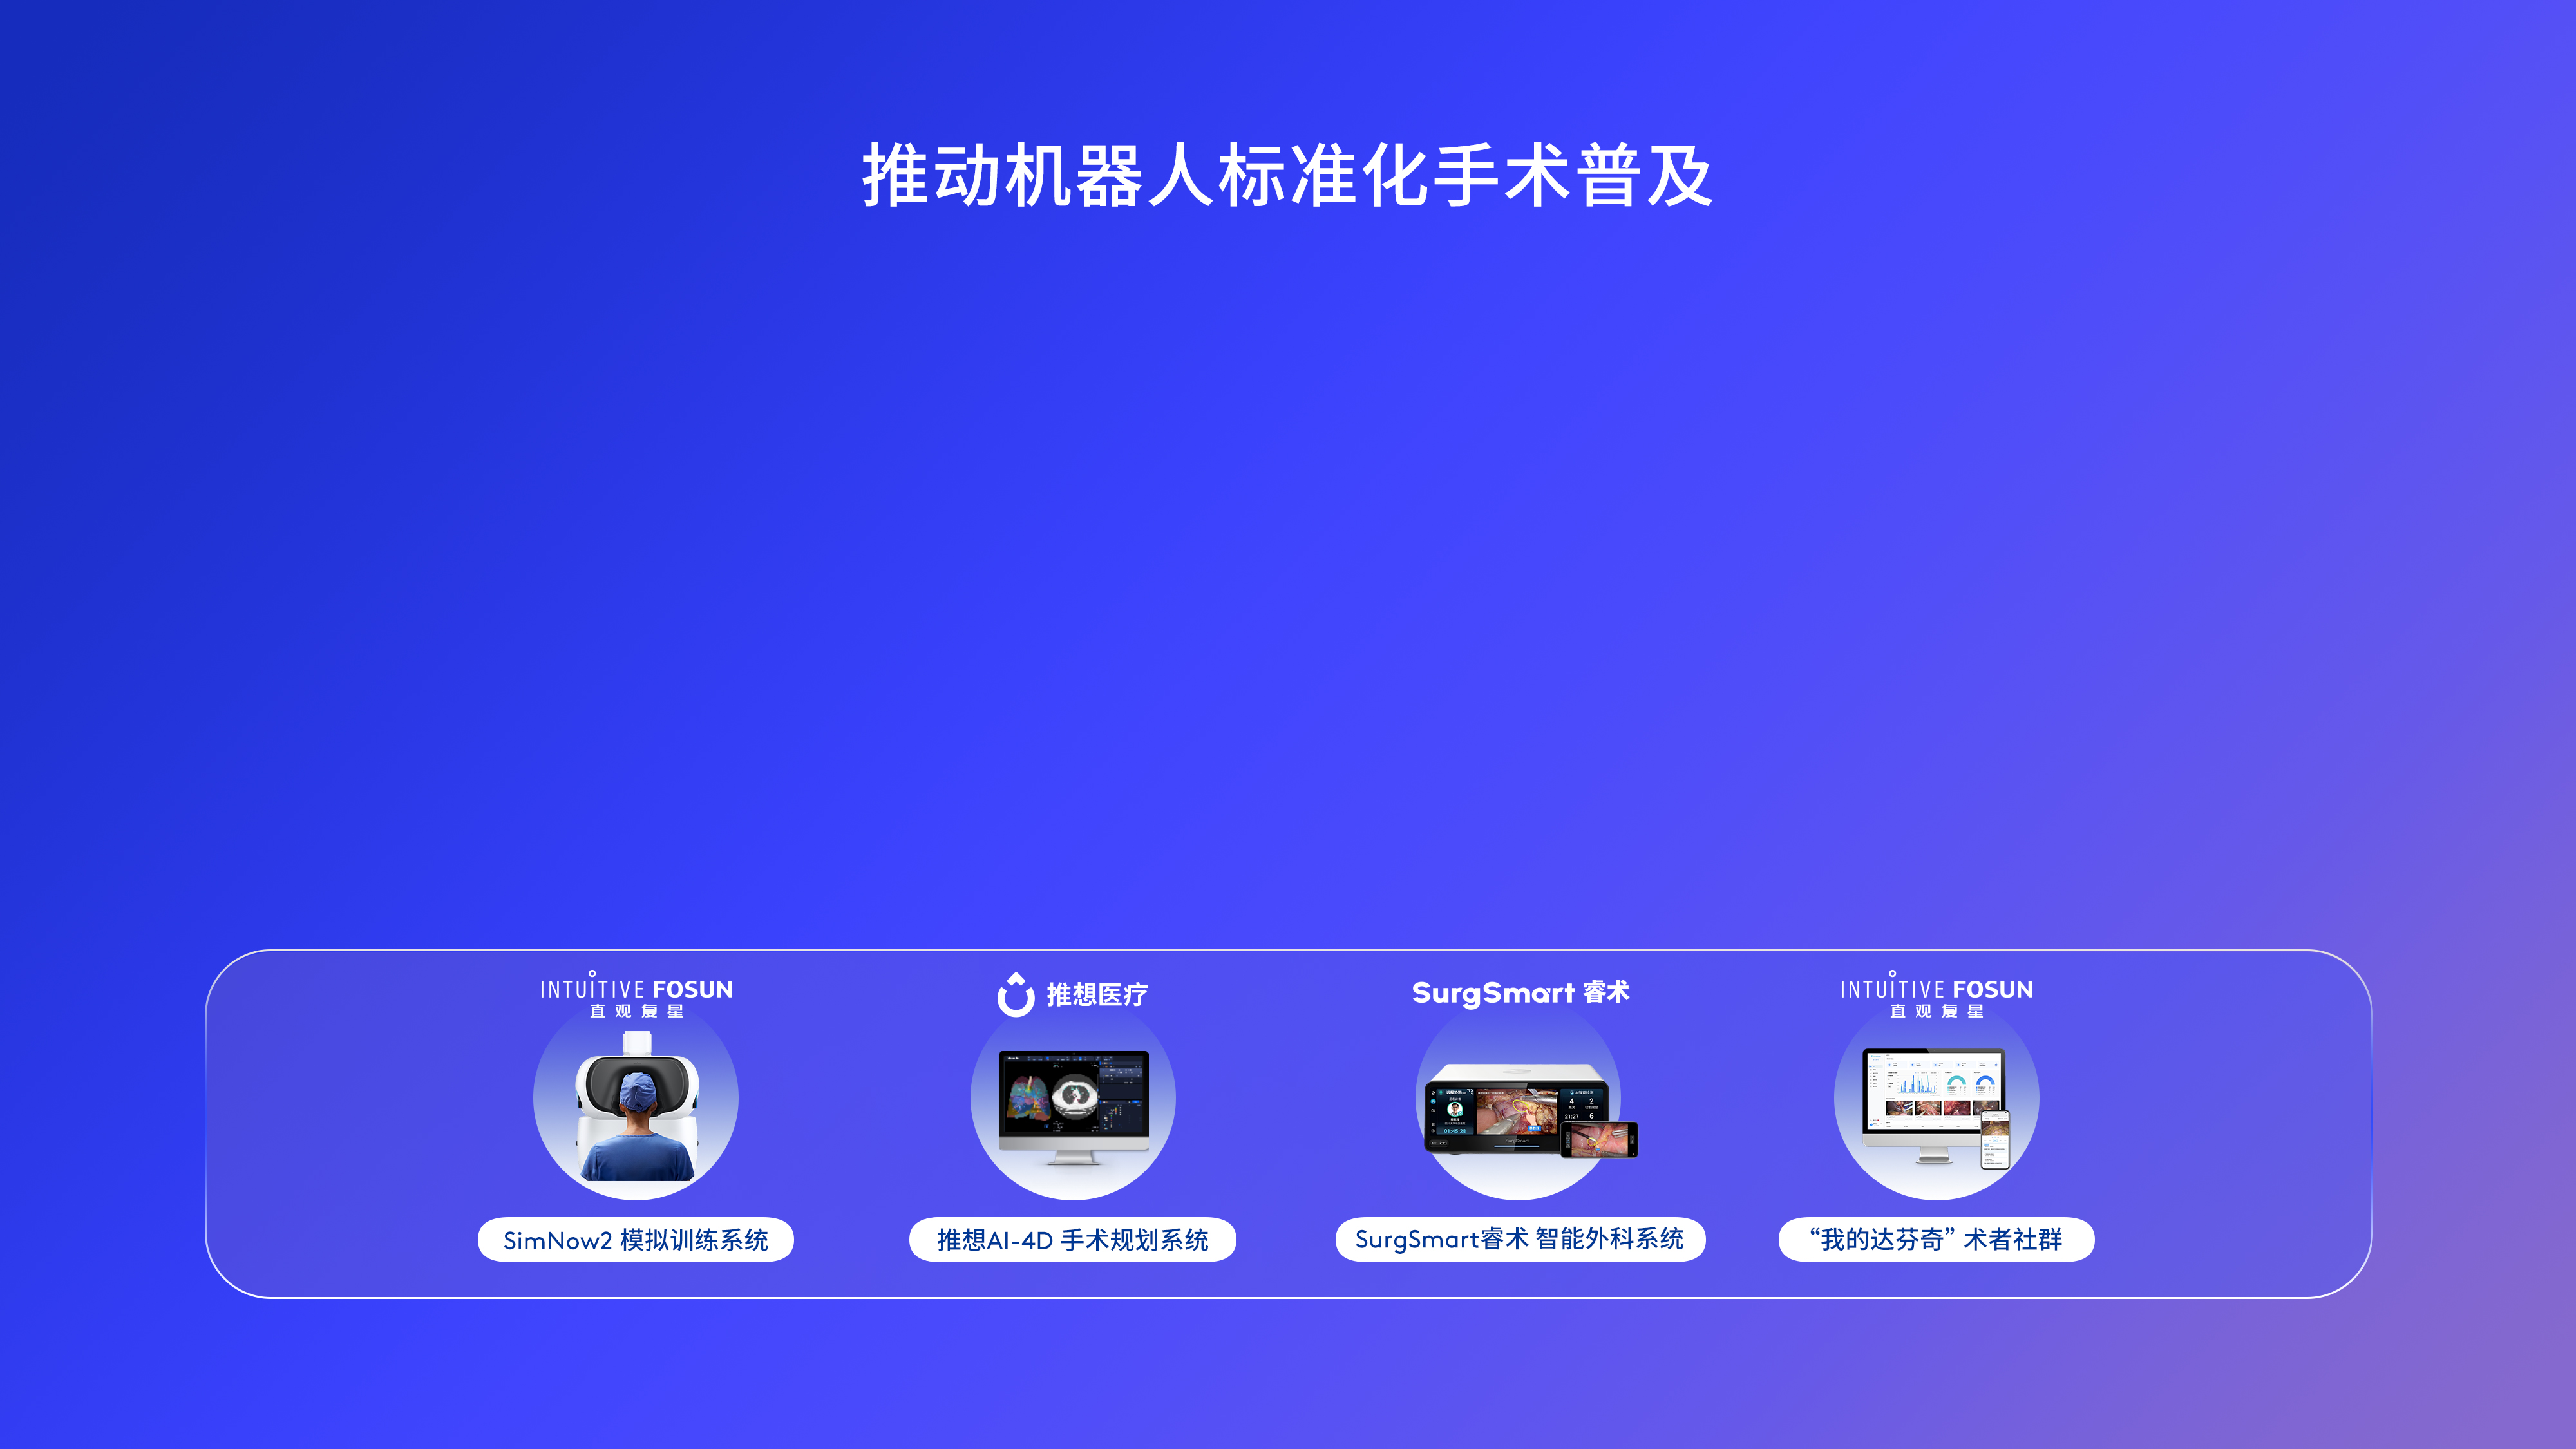
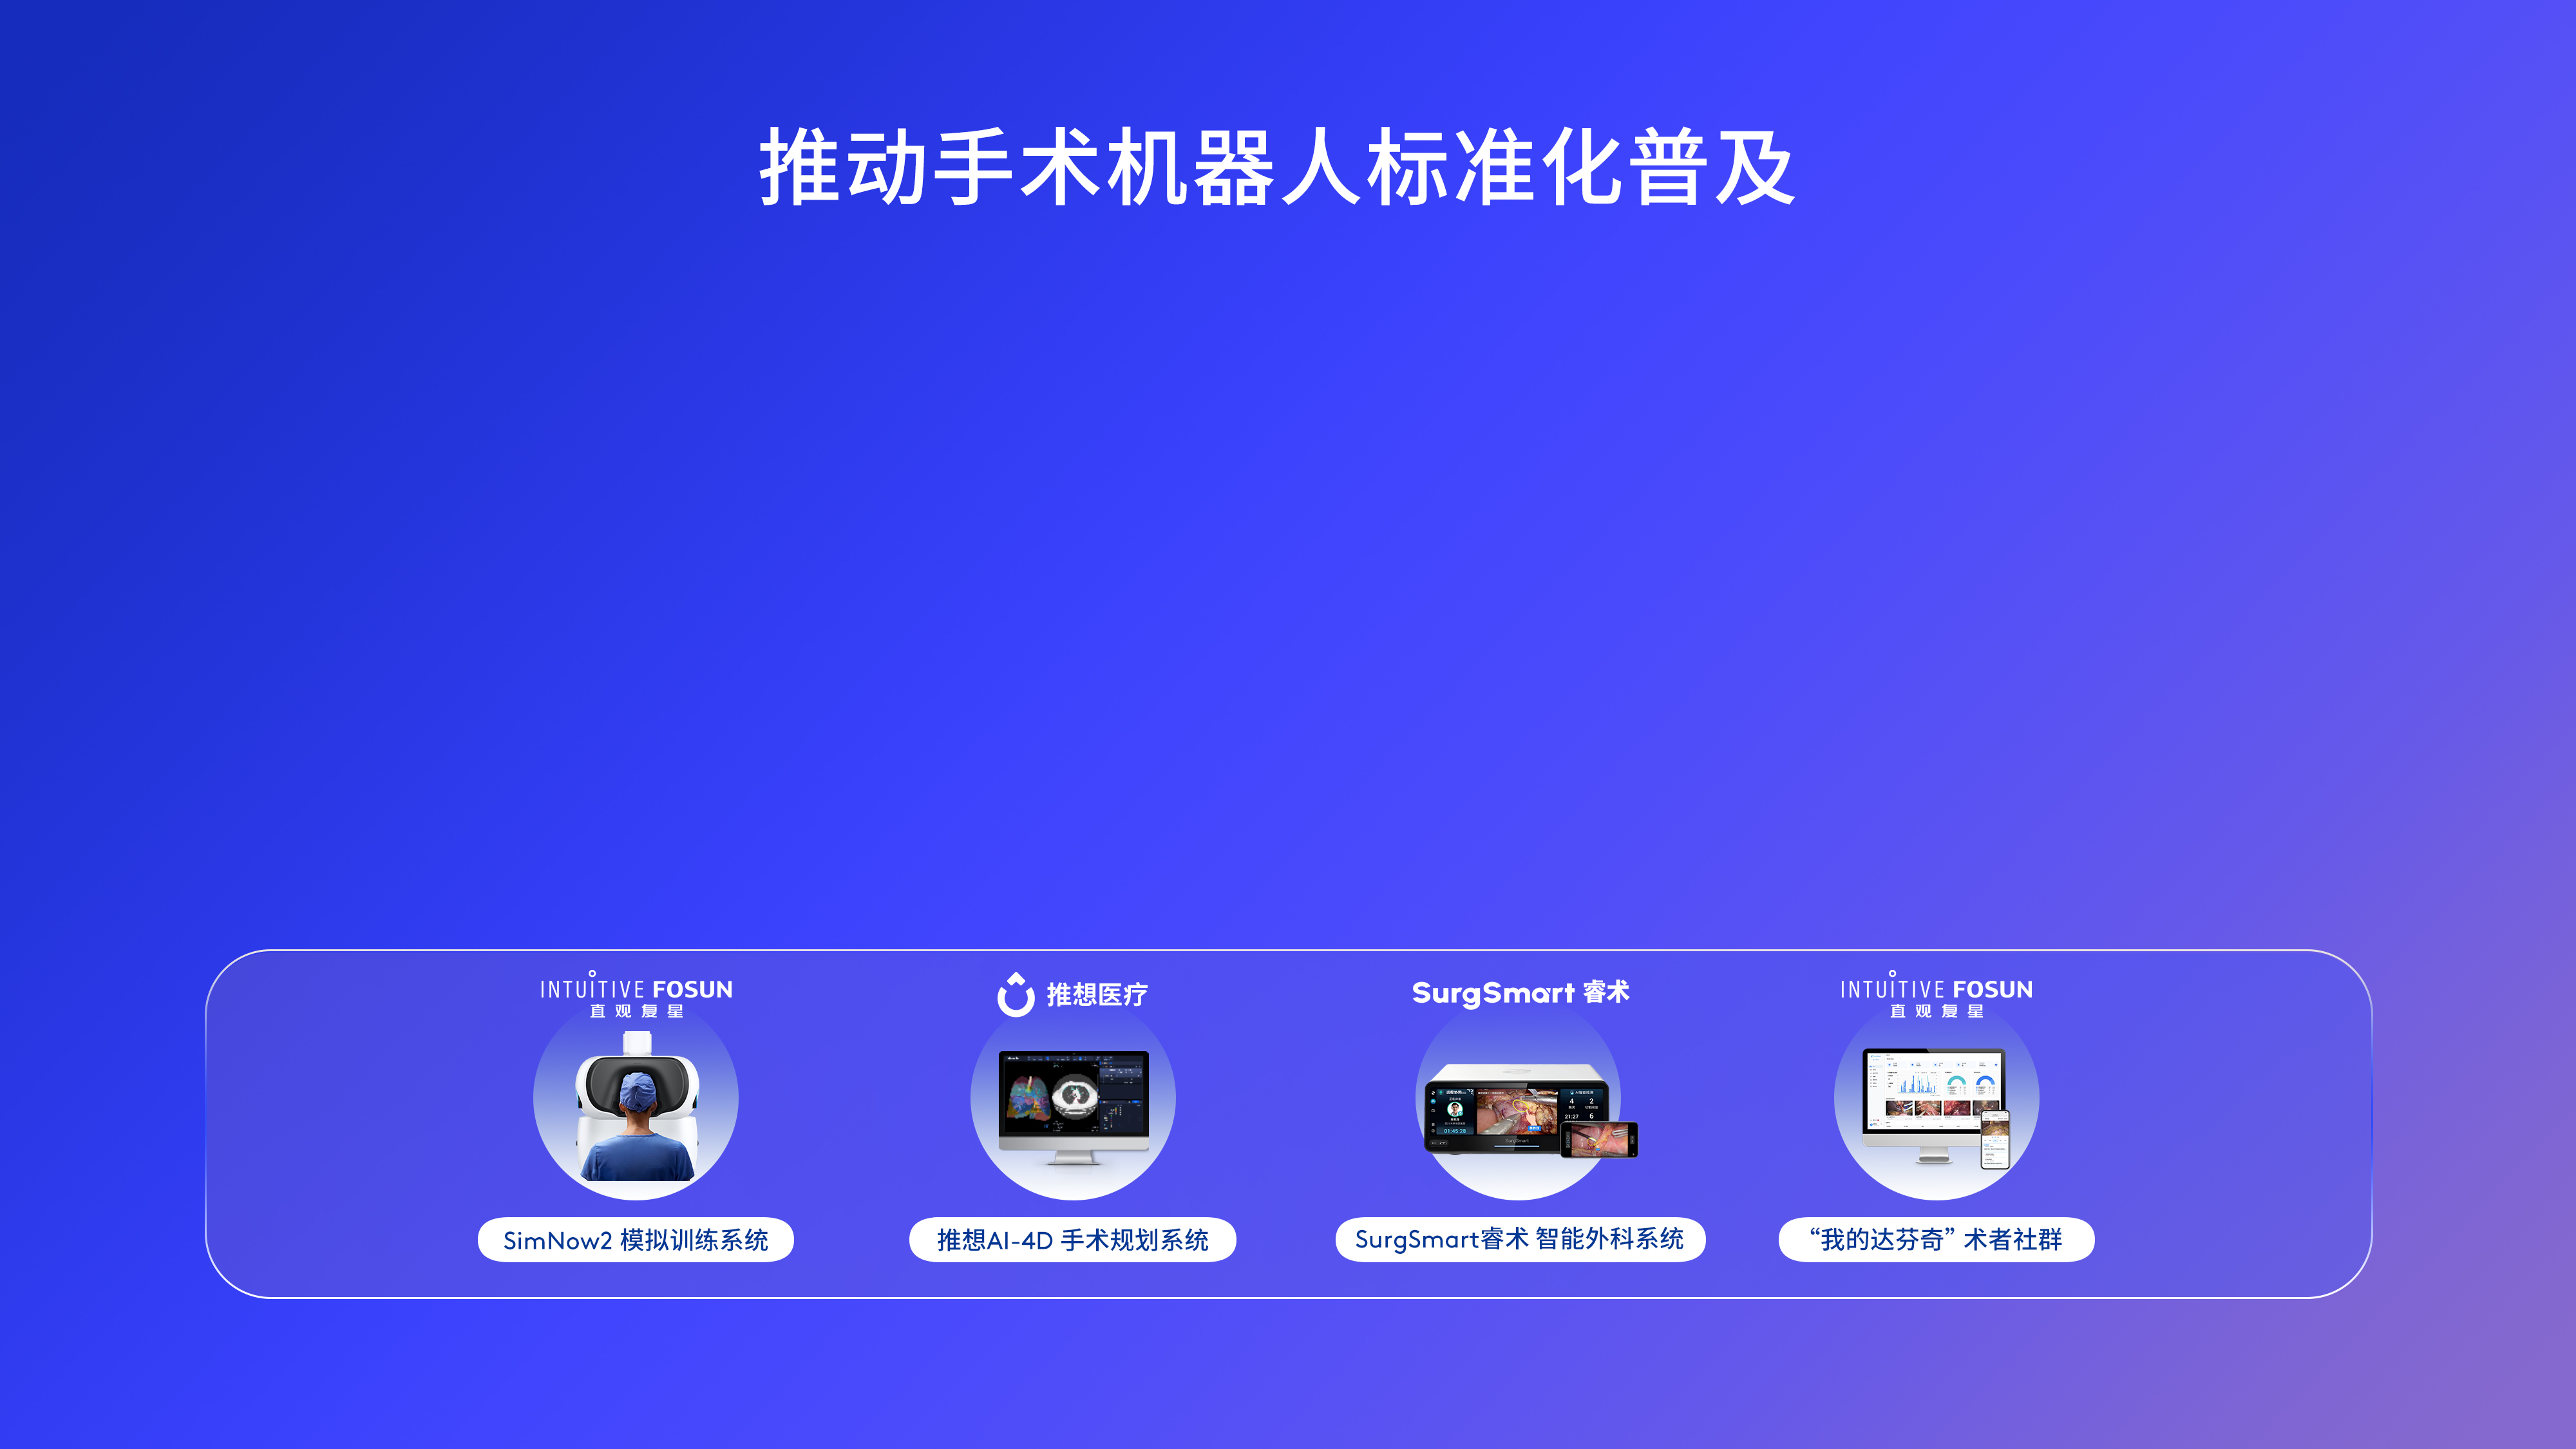
Update homepage surgical decision copy

Changed region(s): [[0.2812, 0.0933, 0.7188, 0.1556]]

diff --git a/src/App.jsx b/src/App.jsx
@@ -513,7 +513,7 @@ function HomeSurface({ onReady, onError }) {
       <div className="home-stage-copy home-stage-copy-intra">
         <strong>术中</strong>
         <div className="home-stage-pills">
-          <span>术中辅助</span>
+          <span>术中决策</span>
           <span>远程教学</span>
         </div>
       </div>

diff --git a/src/app-runtime.test.js b/src/app-runtime.test.js
@@ -185,7 +185,7 @@ test("首页保留阶段时间轴、标题和六个分类标签", async () => {
     "技能培训",
     "手术规划",
     "术中",
-    "术中辅助",
+    "术中决策",
     "远程教学",
     "术后",
     "质控管理",